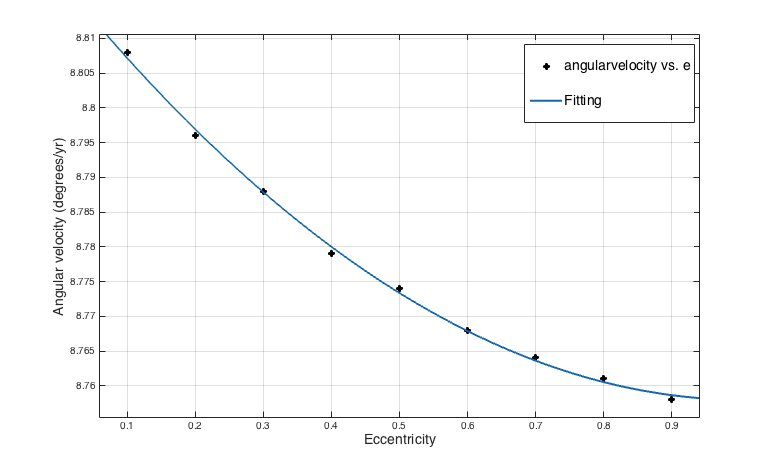
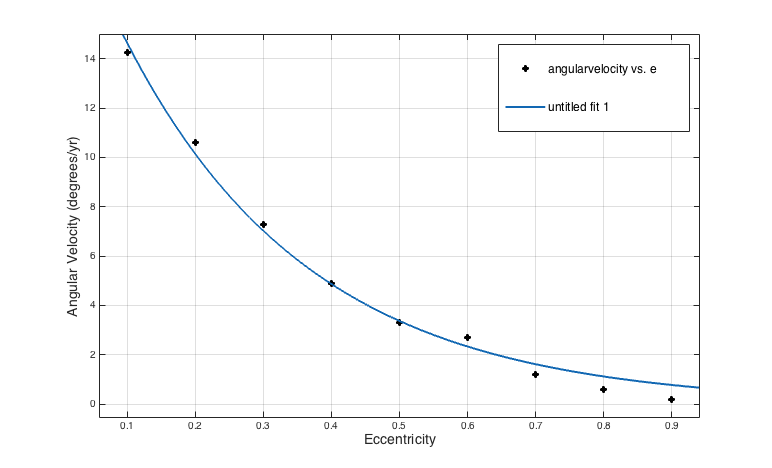
4

diff --git a/Exercise/Chapter 4/ode.py b/Exercise/Chapter 4/ode.py
@@ -1,0 +1,193 @@
+# -*- coding: utf-8 -*-
+"""
+Created on Thu Mar 17 14:49:37 2016
+@author: AF
+version 4.01
+"""
+# this package involve three numerical methods to solve ordinary differential equation.
+# they are Euler method, Crome-Euler method and Runge-Kutta method
+# reference MATLAB 语言常用算法程序集（第2版）
+
+import math
+import numpy as np
+
+
+class ode:
+    def __init__(self,dx,a,b,Y):
+        self.dx = dx    # step length
+        self.a = a      # lower limit
+        self.Y = [0]
+        if (type(Y) == int):
+            self.Y[0] =Y
+        else:
+            self.Y = Y      # initial y
+        self.N = int(float(b - self.a)/(self.dx)) + 1
+        self.data = [[],[]] # store all the datas
+           
+    def set_fx(self,f,variable_name):                ###setting the function on the right side 
+        self.f = [0]
+        if (type(f) == str):
+            self.f[0] = f
+        else:
+            self.f = f
+        self.number = len(variable_name) - 1
+        self.dep_name = []
+        for i in range(len(variable_name)):
+            self.dep_name.append(variable_name[i])
+        self.dep_name_record = self.dep_name[:]
+        return 0
+    
+    def Exe(self,string):
+        pass
+        
+    def euler(self):                   ###simple Euler method
+        self.y = []
+        self.x = []
+        self.x.append(self.a)           #
+        for l in range(self.number):    ###
+            self.y.append([])           ####    setting the initial value
+            self.y[l].append(self.Y[l]) ###
+        for i in range(1,self.N):
+            for k in range(self.number):
+                self.dep_name[k + 1] = self.dep_name_record[k + 1] + '=' + str(self.y[k][i - 1])
+            self.dep_name[0] = self.dep_name_record[0] + '=' + str(self.x[i - 1])
+            for m in range(self.number + 1):
+                exec self.dep_name[m]
+            for j in range(self.number):
+                self.y[j].append(self.y[j][i - 1] + eval(self.f[j]) * self.dx)
+            self.x.append(self.x[i - 1] + self.dx)
+        self.data[0] = self.x
+        self.data[1] = self.y
+        return self.data
+        
+    def rgkt_2(self):                    ### second-order Runge_Kutta
+        self.y = []
+        self.x = []
+        v1 = [0]*self.number
+        v2 = [0]*self.number
+        self.x.append(self.a)
+        for l in range(self.number):    ##
+            self.y.append([])           ####   setting the initial value
+            self.y[l].append(self.Y[l]) ##
+        for i in range(1,self.N):
+            for n in range(self.number):
+                self.dep_name[n + 1] = self.dep_name_record[n + 1] + '=' + str(self.y[n][i - 1])
+            self.dep_name[0] = self.dep_name_record[0] + '=' + str(self.x[i - 1])
+            for m in range(self.number + 1):
+                exec self.dep_name[m]
+            for j in range(self.number):
+                v1[j] = eval(self.f[j])
+            for k in range(self.number):
+                self.dep_name[k + 1] = self.dep_name_record[k + 1] + '=' + str(self.y[k][i - 1] + v1[k]*self.dx/2)
+            self.dep_name[0] = self.dep_name_record[0] + '=' + str(self.x[i - 1] + self.dx/2)
+            for m in range(self.number + 1):
+                exec self.dep_name[m]
+            for j in range(self.number):
+                v2[j] = eval(self.f[j])
+            for k in range(self.number):
+                self.y[k].append(self.y[k][i - 1] + self.dx * v2[k])
+            self.x.append(self.x[i - 1] + self.dx)
+        self.data[0] =self.x
+        self.data[1] =self.y
+        return self.data
+        
+    def rgkt_3(self):                  ### third-order Runge_Kutta 
+        self.y = []
+        self.x = []
+        k1 = [0]*self.number
+        k2 = [0]*self.number
+        k3 = [0]*self.number
+        self.x.append(self.a)           #
+        for l in range(self.number):    ###
+            self.y.append([])           ####    setting the initial value
+            self.y[l].append(self.Y[l]) ###
+        for i in range(1,self.N):
+            for d in range(self.number):
+                self.dep_name[d + 1] = self.dep_name_record[d + 1] + '=' + str(self.y[d][i - 1])
+            self.dep_name[0] = self.dep_name_record[0] + '=' + str(self.x[i - 1])
+            for m in range(self.number + 1):
+                exec self.dep_name[m]
+            for j in range(self.number):
+                k1[j] = eval(self.f[j])
+            for k in range(self.number):
+                self.dep_name[k + 1] = self.dep_name_record[k + 1] + '=' + str(self.y[k][i - 1] + k1[k]*self.dx/2)
+            self.dep_name[0] = self.dep_name_record[0] + '=' + str(self.x[i - 1] + self.dx/2)
+            for m in range(self.number + 1):
+                exec self.dep_name[m]
+            for j in range(self.number):
+                k2[j] = eval(self.f[j])
+            for k in range(self.number):
+                self.dep_name[k + 1] = self.dep_name_record[k + 1] + '=' + str(self.y[k][i - 1] - k1[k]*self.dx + 2*k2[k]*self.dx)
+            self.dep_name[0] = self.dep_name_record[0] + '=' + str(self.x[i - 1] + self.dx/2)
+            for m in range(self.number + 1):
+                exec self.dep_name[m]
+            for j in range(self.number):
+                k3[j] = eval(self.f[j])
+            for k in range(self.number):
+                self.y[k].append(self.y[k][i - 1] + self.dx * (k1[k] + 4*k2[k] +k3[k])/6)
+            self.x.append(self.x[i - 1] + self.dx)
+        self.data[0] = self.x
+        self.data[1] = self.y
+        return self.data 
+ 
+    def rgkt_4(self):                  ### forth-order Runge_Kutta 
+        self.y = []
+        self.x = []
+        k1 = [0]*self.number
+        k2 = [0]*self.number
+        k3 = [0]*self.number
+        k4 = [0]*self.number
+        self.x.append(self.a)           #
+        for l in range(self.number):    ###
+            self.y.append([])           ####    setting the initial value
+            self.y[l].append(self.Y[l]) ###
+        for i in range(1,self.N):
+            for d in range(self.number):
+                self.dep_name[d + 1] = self.dep_name_record[d + 1] + '=' + str(self.y[d][i - 1])
+            self.dep_name[0] = self.dep_name_record[0] + '=' + str(self.x[i - 1])
+            for m in range(self.number + 1):
+                exec self.dep_name[m]
+            for j in range(self.number):
+                k1[j] = eval(self.f[j])
+            for k in range(self.number):
+                self.dep_name[k + 1] = self.dep_name_record[k + 1] + '=' + str(self.y[k][i - 1] + 0.5*k1[k]*self.dx)
+            self.dep_name[0] = self.dep_name_record[0] + '=' + str(self.x[i - 1] + self.dx/2)
+            for m in range(self.number + 1):
+                exec self.dep_name[m]
+            for j in range(self.number):
+                k2[j] = eval(self.f[j])
+            for k in range(self.number):
+                self.dep_name[k + 1] = self.dep_name_record[k + 1] + '=' + str(self.y[k][i - 1] + 0.5*k2[k]*self.dx)
+            self.dep_name[0] = self.dep_name_record[0] + '=' + str(self.x[i - 1] + self.dx/2)
+            for m in range(self.number + 1):
+                exec self.dep_name[m]
+            for j in range(self.number):
+                k3[j] = eval(self.f[j])
+            for k in range(self.number):
+                self.dep_name[k + 1] = self.dep_name_record[k + 1] + '=' + str(self.y[k][i - 1] + k3[k]*self.dx)
+            self.dep_name[0] = self.dep_name_record[0] + '=' + str(self.x[i - 1] + self.dx)
+            for m in range(self.number + 1):
+                exec self.dep_name[m]
+            for j in range(self.number):
+                k4[j] = eval(self.f[j])
+            for k in range(self.number):
+                self.y[k].append(self.y[k][i - 1] + self.dx * (k1[k] + 2*k2[k] + 2*k3[k] + k4[k])/6)
+            self.x.append(self.x[i - 1] + self.dx)
+        self.data[0] = self.x
+        self.data[1] = self.y
+        return self.data 
+ 
+    def store(self,data__file):           #### save the calculculate datas            
+        data_file = open(data__file,'w')
+        for i in range(self.N):
+            data_file.write(str(self.data[0][i]))
+            data_file.write(' ')
+            if (len(self.data[1] == 1)):
+               data_file.write(str(self.data[1][i]))
+            else:
+                for j in range(len(self.data[1])):
+                    data_file.write(str(self.data[1][j][i]))
+                    data_file.write(' ')
+            data_file.write('\n')
+        data_file.close  
+

diff --git a/Exercise/Chapter 4/chapter4_4.11.py b/Exercise/Chapter 4/chapter4_4.11.py
@@ -8,15 +8,28 @@ Created on Wed May  4 17:11:36 2016
 import numpy as np
 import matplotlib.pyplot as plt
 import ode as solving_ode
-from visual import *
-
+#from visual import *
 
 ###  -------- circular orbit -----------------
-A = solving_ode.ode(0.0001,0,1,(0.47,0,0,8.2))
-A.set_fx(['vx','-4*np.pi**2*x/(np.sqrt(x**2+y**2))**3*(1+0.01/(np.sqrt(x**2+y**2))**2)','vy','-4*np.pi**2*y/(np.sqrt(x**2+y**2))**3*(1+0.01/(np.sqrt(x**2+y**2))**2)'],['t','x','vx','y','vy'])
+e = 0.9
+r_min = 0.314
+r_0 = r_min*(1 + e)/(1 - e)
+a = r_min/(1 - e)
+v_0 = np.sqrt(4*np.pi**2*(1 - e)**2/(r_min*(1 + e))) 
+A = solving_ode.ode(0.001,0,25,(r_0,0,0,v_0))
+A.set_fx(['vx','-4*np.pi**2*x/(np.sqrt(x**2+y**2))**3*(1+0.001/(np.sqrt(x**2+y**2))**2)','vy','-4*np.pi**2*y/(np.sqrt(x**2+y**2))**3*(1+0.001/(np.sqrt(x**2+y**2))**2)'],['t','x','vx','y','vy'])
 data_record = A.rgkt_4()
+theta_record = []
+time_record = []
+for i in range(len(data_record[1][0]) - 1):
+    if ( data_record[1][0][i]**2+data_record[1][2][i]**2 > data_record[1][0][i - 1]**2+data_record[1][2][i - 1]**2 and data_record[1][0][i]**2+data_record[1][2][i]**2> data_record[1][0][i + 1]**2+data_record[1][2][i + 1]**2):
+        time_record.append(data_record[0][i])
+        theta_record.append(np.arctan(data_record[1][2][i]/data_record[1][0][i])*180/np.pi)
+print time_record
+print theta_record
+
 ###  ------ vpython -------------------------
-sun = sphere(pos = (0,0,0),radius = 0.22,color = color.yellow)
+'''sun = sphere(pos = (0,0,0),radius = 0.22,color = color.yellow)
 lamp = local_light(pos=(0,0,0), color=color.yellow)
 deltat = 0.0001
 i = 0
@@ -30,7 +43,7 @@ while i < len(data_record[1][1]):
     mercury.trail.append(pos = mercury.pos)
     t = t + deltat
     i+=1
-
+'''
 ### -----------------------------------------
 '''plt.figure(figsize = (10,8))
 plt.xlabel('x(AU)')
@@ -56,21 +69,23 @@ plt.show()'''
 ###  -------Precession: elliptical orbit ---------------- ## r_max = 0.47 AU Kappa = 2.6579 r_min = 0.314AU alpha = 0.01  period = 0.239
 #plt.figure(figsize = (16,12))
 #plt.subplot(111,polar = True)
-'''e = 0.206
+'''e = 0.2
 r_min = 0.314
 r_0 = r_min*(1 + e)/(1 - e)
 A = solving_ode.ode(0.01,0,30*np.pi,(r_0,0))  
 #print 1./(r_min*(1 + e))
 A.set_fx(['v','(2.0/r)*v**2+r-'+str(1./(r_min*(1 + e)))+'*(1 + 0.001/(r**2))*r**2'],['t','r','v'])
 #A.set_fx(['v','(2.0/r)*v**2+r-2.6579*(1 + 0.01/(r**2))*r**2'],['t','r','v'])
-data_record = A.rgkt_4()'''
-'''theta_record = []
+data_record = A.rgkt_4()
+theta_record = []
 #r_0 = 0.47
+print r_0
 for i in range(len(data_record[1][0]) - 1):
     if ( data_record[1][0][i] > data_record[1][0][i - 1] and data_record[1][0][i] > data_record[1][0][i + 1]):
         theta_record.append(data_record[0][i])
     if ( data_record[1][0][i] < data_record[1][0][i - 1] and data_record[1][0][i] < data_record[1][0][i + 1]):
-        print data_record[1][0][i]
+        #print data_record[1][0][i]
+        pass
 print theta_record'''
 '''eccentricities = [0.2,0.5,0.8]
 for i in range(3):
@@ -82,7 +97,7 @@ for i in range(3):
     data_record = A.rgkt_4()
     plt.plot(data_record[0],data_record[1][0],lw=1,label = 'e = '+str(eccentricities[i]))    
 plt.title('Simulation of the precession of Mercury')
-plt.legend()
-plt.savefig('chapter4_4.11_0.2.png',dpi = 144)
-plt.show()'''
+plt.legend()'''
+plt.savefig('chapter4_4.11.png',dpi = 144)
+plt.show()
 
